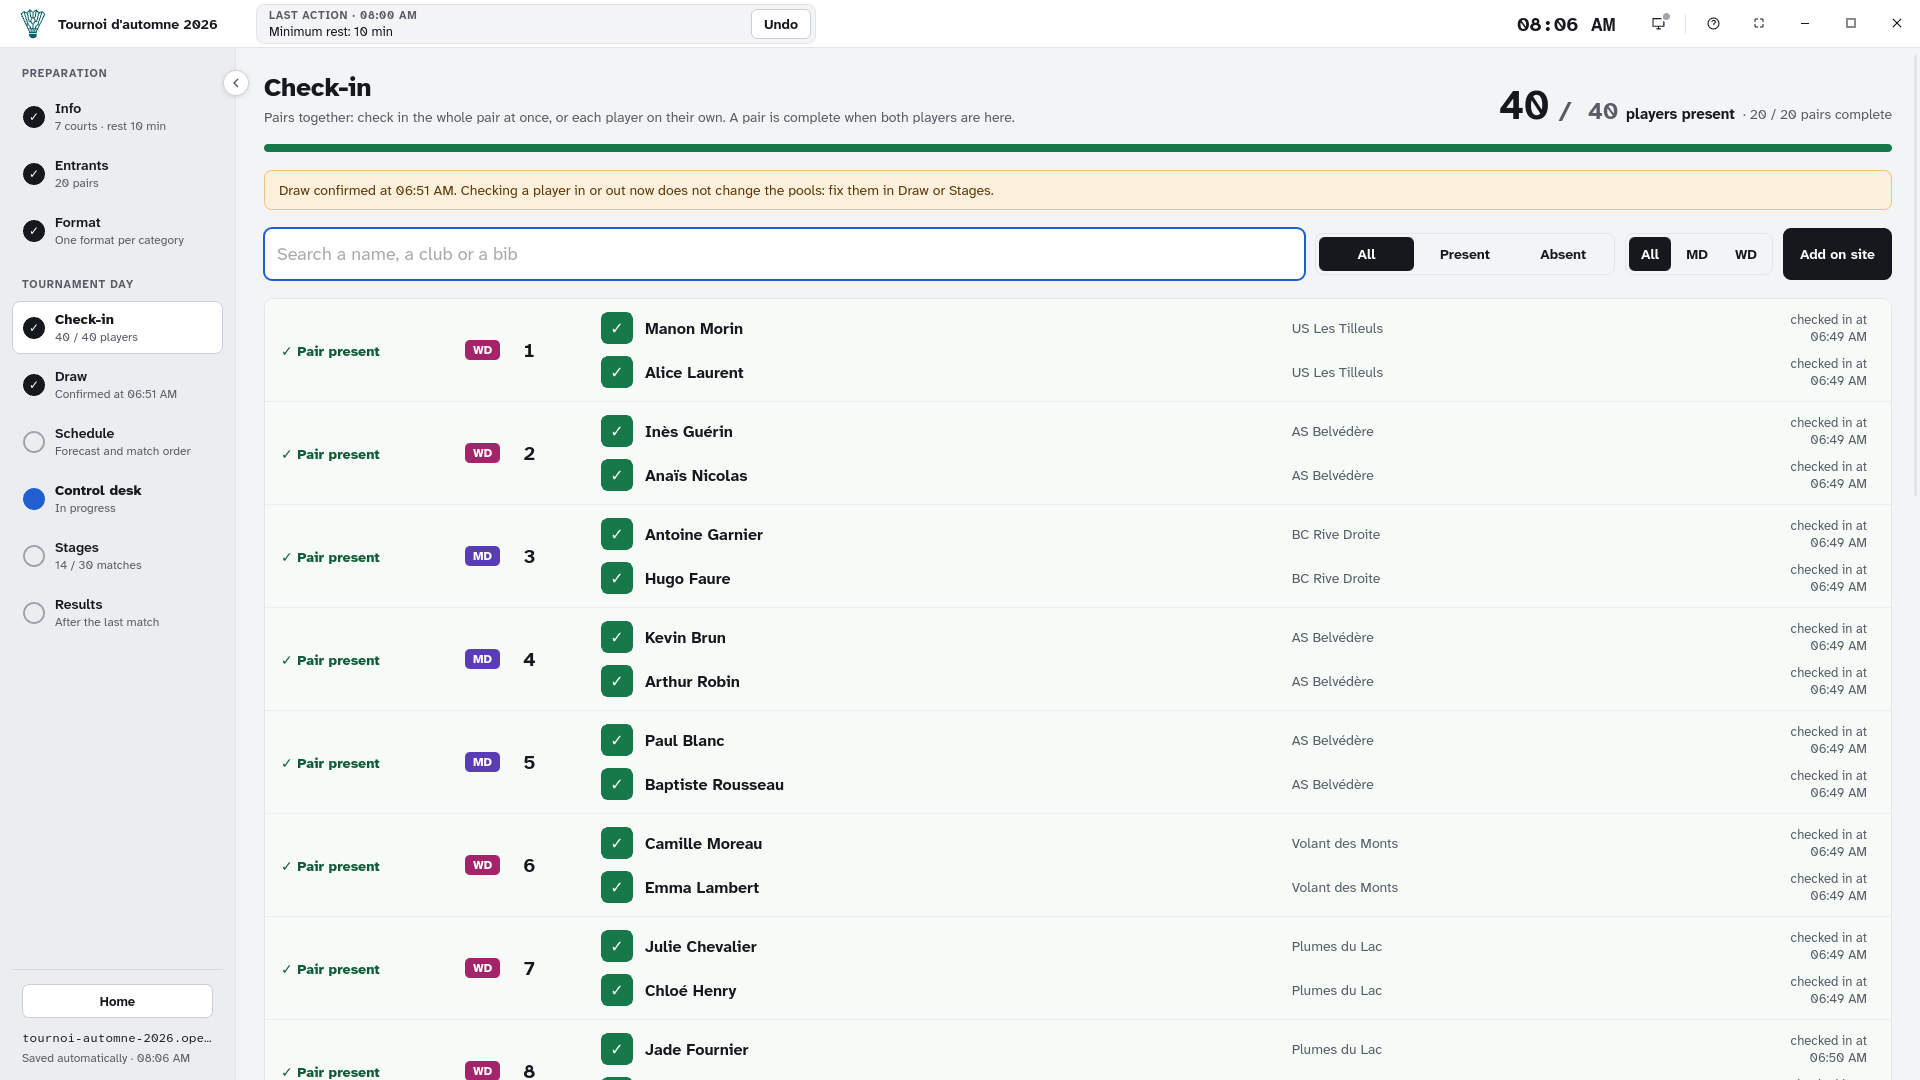
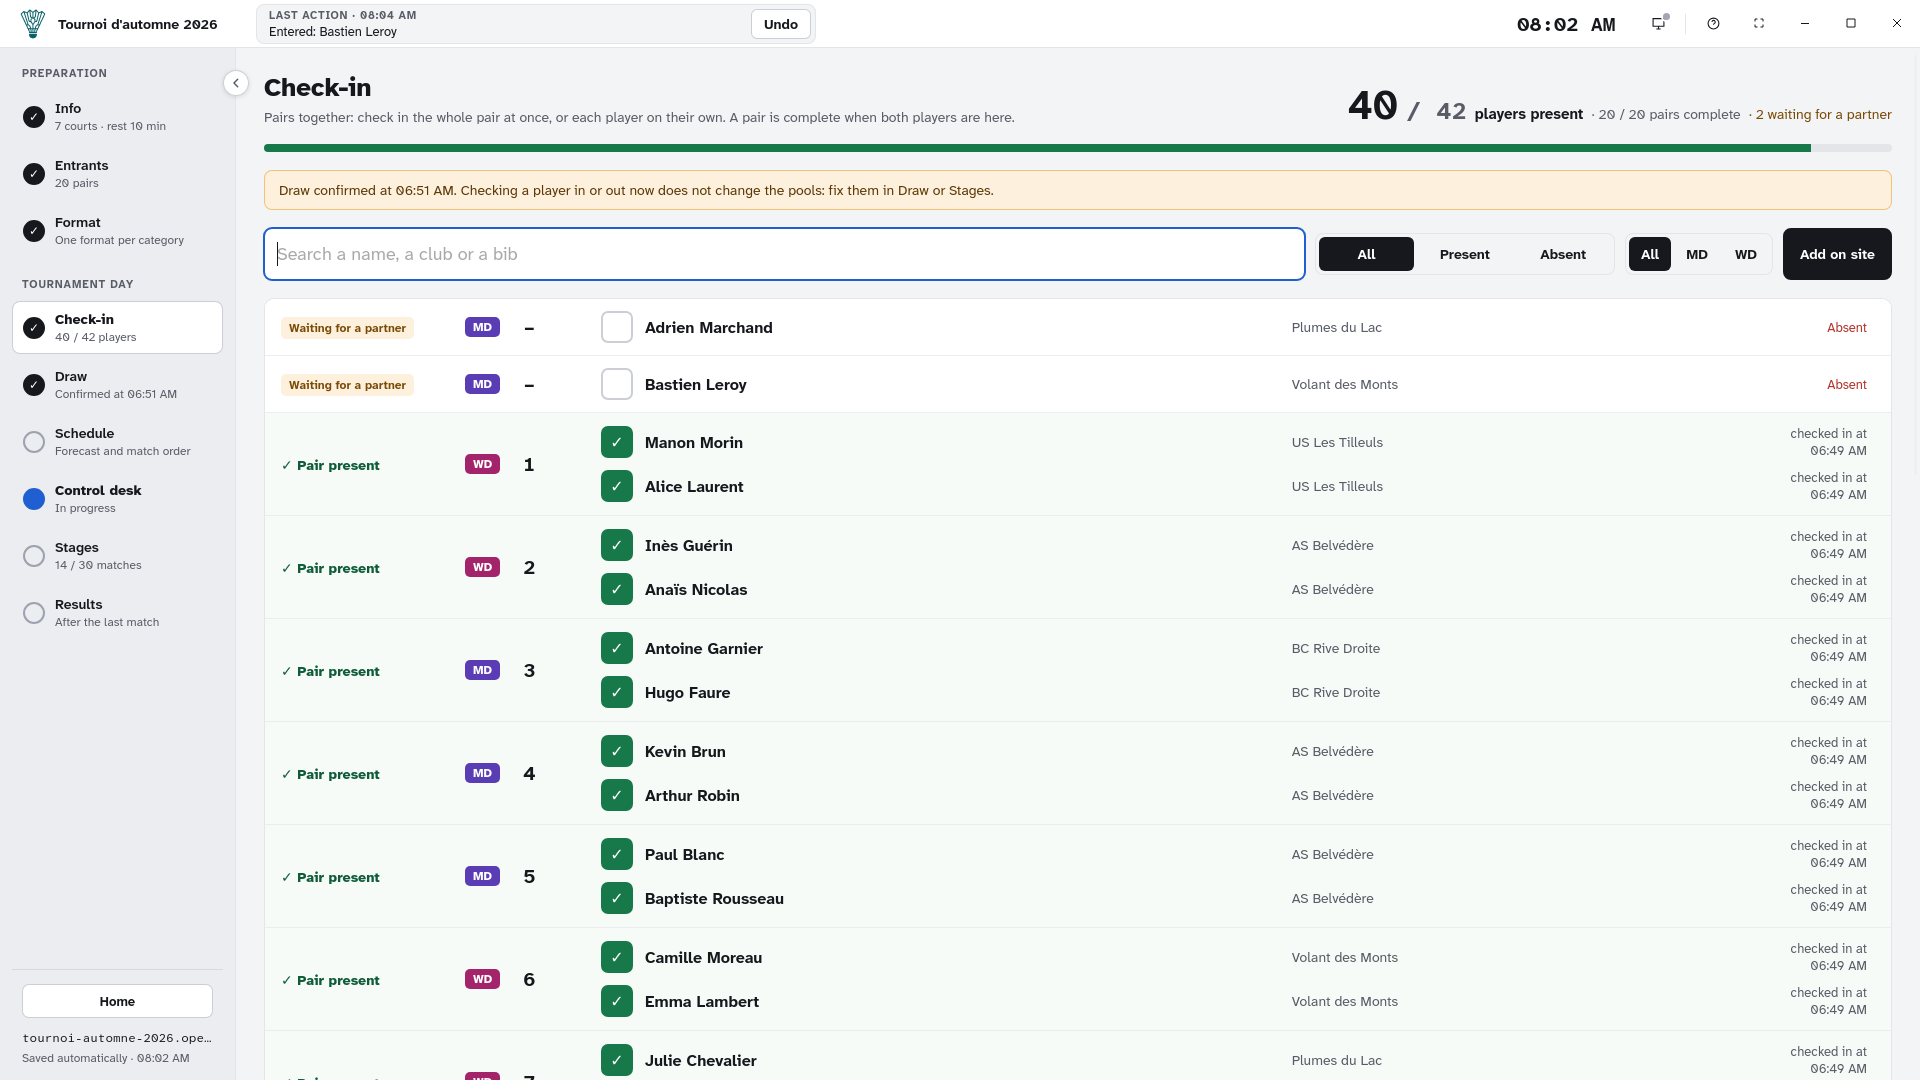
feat: check-in lists complete teams last in 1.2.0
New check-in screenshots from desktop main: two absent players waiting
for a partner on top, the complete pairs below. Guide step 4 and the
1.2.0 changelog say that teams already checked in move to the bottom.

diff --git a/src/content/guide/fr/04-pointage.md b/src/content/guide/fr/04-pointage.md
@@ -4,13 +4,14 @@ title: Pointer les arrivées
 summary: Un clic par joueur, un dossard par participant, les retardataires ajoutés sur place.
 images:
   - src: ../../../assets/guide/04-checkin-fr.png
-    alt: "L’écran Pointage : 40 joueurs présents sur 40, la recherche, et les paires pointées avec leur dossard"
+    alt: "L’écran Pointage : 40 joueurs présents sur 42, la recherche, deux joueurs absents qui attendent un partenaire en haut de la liste, puis les paires pointées avec leur dossard"
     caption: "Le pointage avec ses compteurs et la recherche"
 ---
 
 Le jour J, ouvrez **Pointage**. La liste montre chaque joueur avec sa catégorie, son partenaire et son dossard, et une recherche par nom, club ou dossard.
 
 - Cliquez sur **Présent** quand un joueur arrive. Une paire est complète quand ses deux joueurs sont pointés ; **Pointer la paire** les pointe ensemble.
+- Les équipes complètes passent en bas de la liste : en haut restent celles qu'il faut encore pointer.
 - Le **dossard** est attribué au premier pointage de la paire. Il s'affiche ensuite partout à côté du nom, sur la table de marque comme sur l'écran d'appel.
 - Les compteurs en haut indiquent où vous en êtes, par exemple « 40 / 42 joueurs · 20 / 21 paires complètes ».
 - Un inscrit de dernière minute ? **Ajouter sur place**. Un absent ? Retirez-le simplement de la liste.

diff --git a/src/content/guide/en/04-check-in.md b/src/content/guide/en/04-check-in.md
@@ -4,13 +4,14 @@ title: Check in the players
 summary: One click per player, one bib per entrant, late entries added on site.
 images:
   - src: ../../../assets/guide/04-checkin-en.png
-    alt: "The Check-in screen: 40 of 40 players present, the search, and the checked-in pairs with their bib numbers"
+    alt: "The Check-in screen: 40 of 42 players present, the search, two absent players waiting for a partner at the top of the list, then the checked-in pairs with their bib numbers"
     caption: "Check-in with its counters and search"
 ---
 
 On the day, open **Check-in**. The list shows each player with their category, partner and bib, and a search by name, club or bib number.
 
 - Click **Present** when a player arrives. A pair is complete when both players are checked in; **Check in the pair** checks in both at once.
+- Complete teams move to the bottom of the list: the ones still to check in stay on top.
 - The **bib number** is given at the pair's first check-in. It then shows everywhere next to the name, on the control desk as on the display screen.
 - Counters at the top show where you stand, for example “40 / 42 players · 20 / 21 complete pairs”.
 - A last-minute entry? **Add on site**. Someone absent? Simply remove them from the list.

diff --git a/src/content/pages/fr/nouveautes.md b/src/content/pages/fr/nouveautes.md
@@ -13,6 +13,7 @@ updated: 2026-11-04
 - **Nouveau :** le format d’une phase suivante se modifie pendant le tournoi, tant qu’aucun de ses matchs n’a commencé. Après des forfaits ou en cas de retard, passez le tableau final en un set, transformez-le en poules, ajoutez ou supprimez une phase.
 - **Nouveau :** une corbeille sur l’accueil. Un tournoi dont vous n’avez plus besoin quitte la liste ; vous le restaurez ou le supprimez plus tard.
 - **Nouveau :** l’aperçu du format se calcule au choix pour les paires complètes, toutes les inscriptions ou les présents.
+- **Amélioré :** au pointage, les équipes déjà pointées passent en bas de la liste ; en haut restent celles qu’on attend.
 - **Amélioré :** chaque fenêtre de choix de fichier (import, export, ouverture, archive) s’ouvre dans le dernier dossier utilisé.
 - **Amélioré :** une équipe qui a déjà des matchs ne peut plus être retirée ou séparée par erreur : l’écran Inscrits indique de déclarer un forfait.
 

diff --git a/src/content/pages/en/changelog.md b/src/content/pages/en/changelog.md
@@ -13,6 +13,7 @@ updated: 2026-11-04
 - **New:** the format of a later stage can change during the tournament, as long as none of its matches has started. After forfeits or when running late, play the final bracket in one set, turn it into pools, add or remove a stage.
 - **New:** a trash on the home screen. A tournament you no longer need leaves the list; restore it or delete it later.
 - **New:** the format preview counts, as you choose, the complete pairs, every entry or the present ones.
+- **Improved:** at check-in, teams already checked in move to the bottom of the list; the ones still expected stay on top.
 - **Improved:** each file dialog (import, export, open, archive) opens in the folder you used last.
 - **Improved:** a team that already has matches can no longer be removed or split by mistake: the Entrants screen points you to a forfeit.
 
